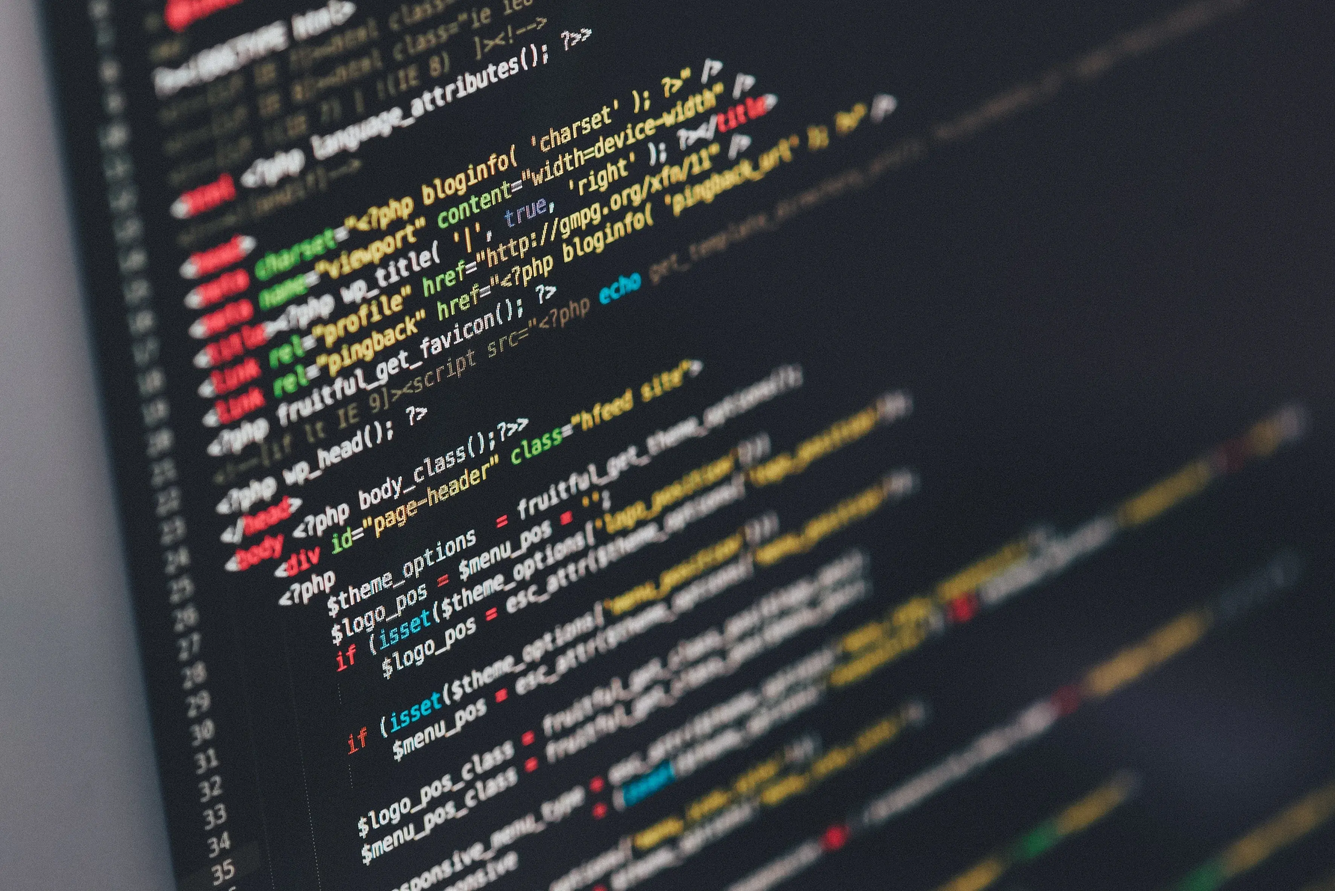
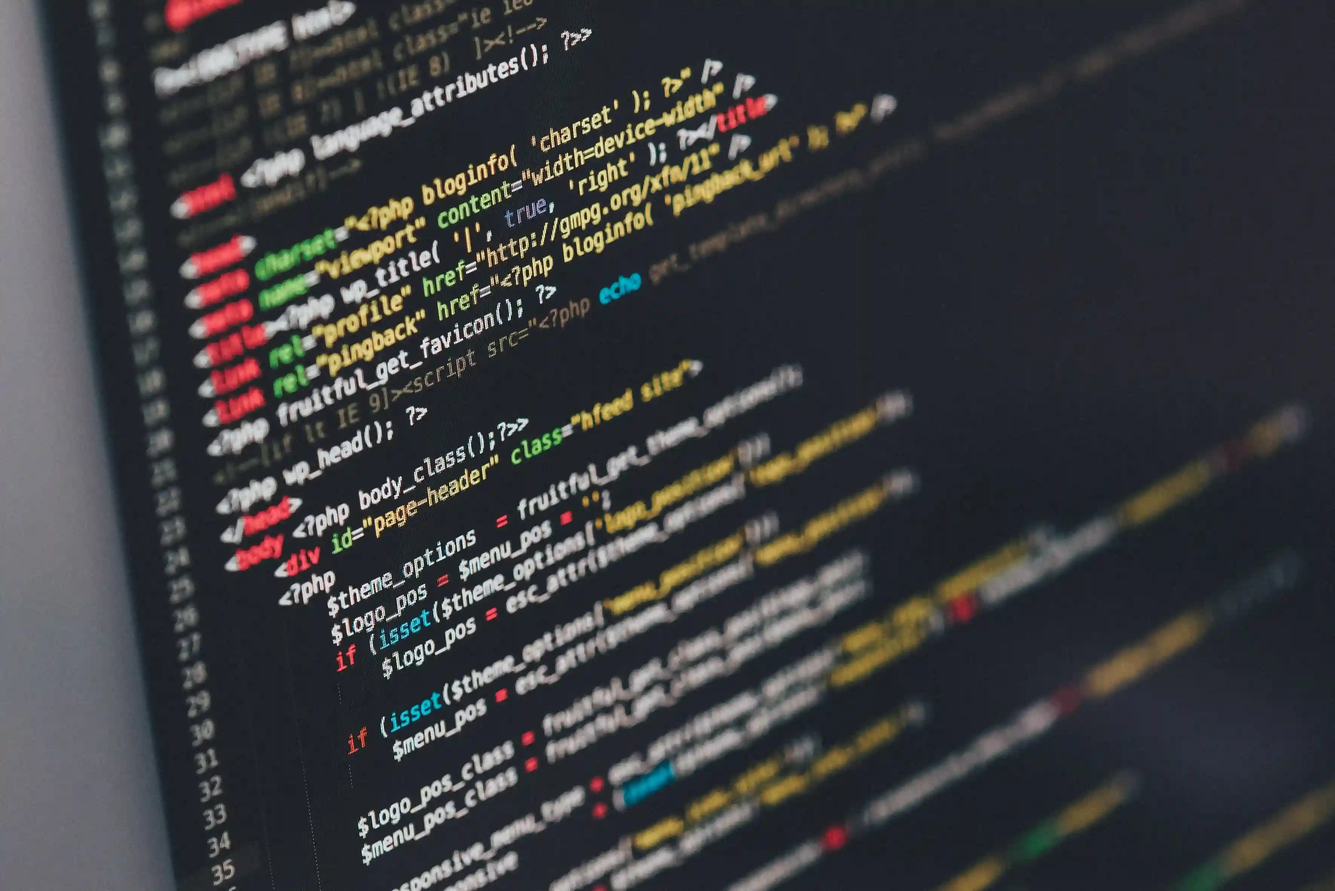
Compressed the largest image making better the website performance

diff --git a/public/index.html b/public/index.html
@@ -11,7 +11,7 @@
     />
     <link rel="apple-touch-icon" href="logo192.png" />
 
-    <link rel="manifest" href="%PUBLIC_URL%/manifest.json" />
+    <link rel="manifest" href="manifest.json" />
 
     <title>Jumorap</title>
   </head>
